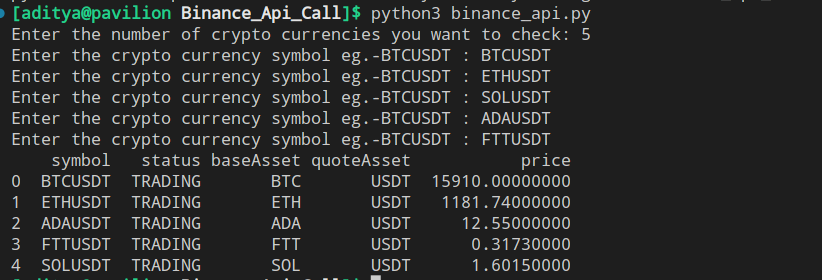
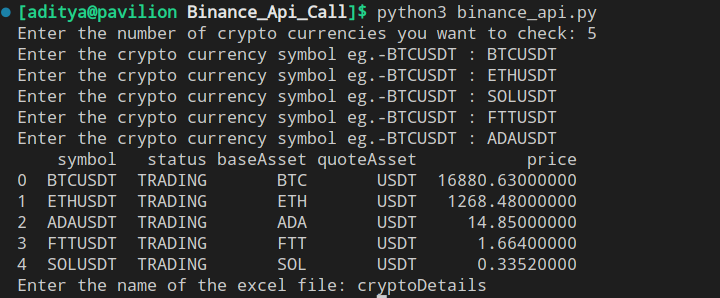
added excel conversion

Changed region(s): [[0.0, 0.0, 0.825, 1.0]]

diff --git a/binance_api.py b/binance_api.py
@@ -68,9 +68,14 @@ def response_to_df(response_json):
         df = df[['symbol', 'status', 'baseAsset', 'quoteAsset']]
         global crypto
         crypto = df
-        # df.to_csv('crypto.csv', index=False)
+        get_crypto_price(inputCrypto)
     else:
+        print('No response data found')
         return None
+
+def convert_to_excel(filename):
+    global crypto
+    crypto.to_excel(filename+'.xlsx', index=False)
 
 # Input Crypto Array from User 
 n = int(input("Enter the number of crypto currencies you want to check: "))
@@ -79,7 +84,16 @@ for i in range(n):
     inputCrypto.append(input("Enter the crypto currency symbol eg.-BTCUSDT : "))
 
 get_crypto_details(inputCrypto)
-get_crypto_price(inputCrypto)
 
 
+# crypto.to_excel('cryp.xlsx', index=False)
+
+# Output
 print(crypto)
+
+# Convert to Excel
+excel_name = input("Enter the name of the excel file: ")
+convert_to_excel(excel_name)
+
+
+
